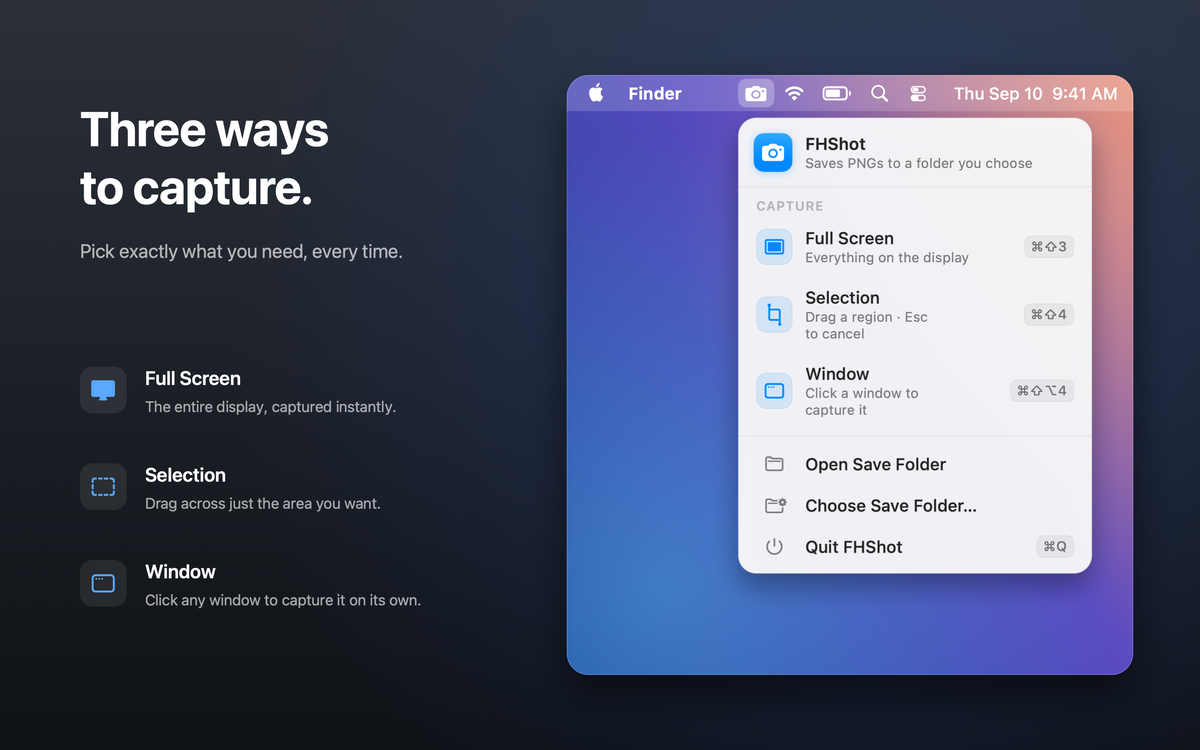
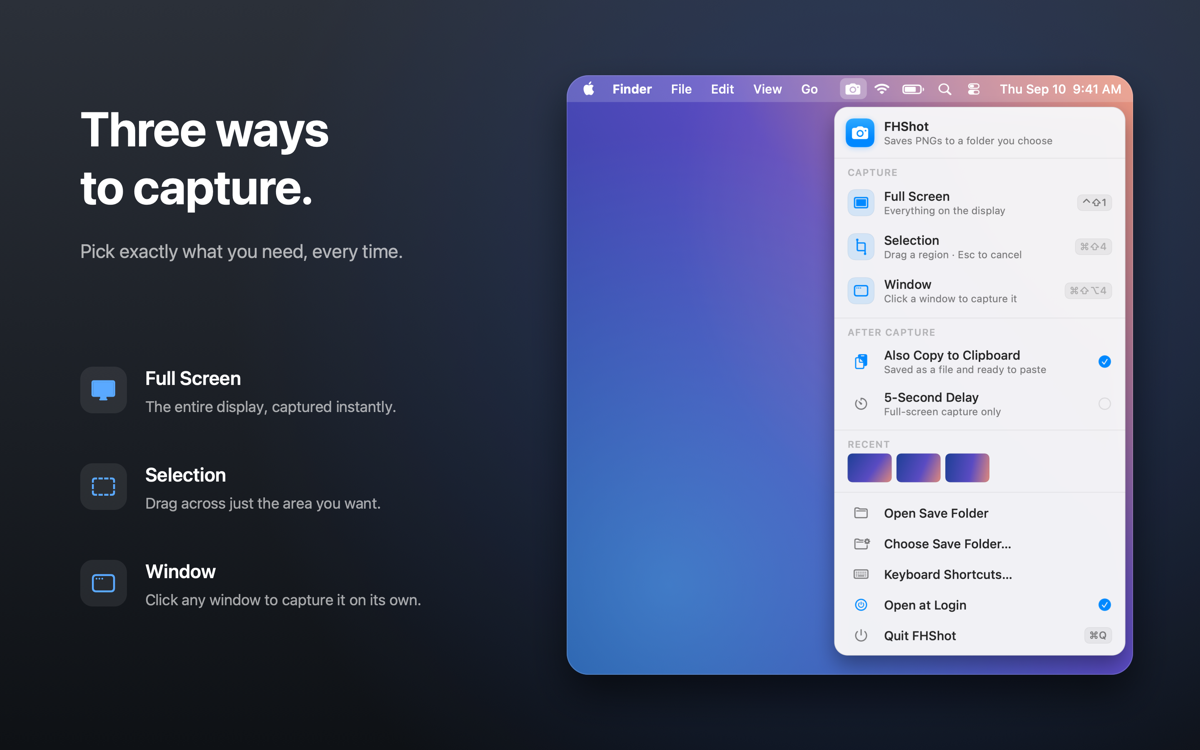
Apps: update FHShot for 1.1
Adds the shortcuts, clipboard, recent-captures, delay, and login
features to the description, and a fifth screenshot of the Keyboard
Shortcuts window. All five shots are re-exported from the App Store
set, which the panel redesign changed, so the page shows the real UI.

diff --git a/apps.html b/apps.html
@@ -606,14 +606,15 @@
           </header>
           <div class="product-body">
             <div class="app-copy">
-              <p>FHShot puts screen capture one click away in the Mac menu bar. Capture the full screen, a selected area, or a single window, and every shot is saved as a PNG in the folder you choose. It uses the screenshot engine built into macOS, so captures match the system's own. It has no account, no analytics, and no network access.</p>
+              <p>FHShot puts screen capture one click away in the Mac menu bar, or on a keyboard shortcut you choose. Capture the full screen, a selected area, or a single window, and every shot is saved as a PNG in the folder you choose. It uses the screenshot engine built into macOS, so captures match the system's own. It has no account, no analytics, and no network access.</p>
               <h3 class="product-subhead">What it does</h3>
               <ul class="about-list" aria-label="FHShot features">
                 <li><span class="check" aria-hidden="true"></span><span><strong>Always within reach:</strong> a camera icon in the menu bar, one click from any app.</span></li>
-                <li><span class="check" aria-hidden="true"></span><span><strong>Three capture modes:</strong> full screen, a selection, or a single window.</span></li>
-                <li><span class="check" aria-hidden="true"></span><span><strong>Saved where you want:</strong> pick a folder once and FHShot remembers it.</span></li>
-                <li><span class="check" aria-hidden="true"></span><span><strong>Familiar file names:</strong> shots are named the same way macOS names its own screenshots.</span></li>
-                <li><span class="check" aria-hidden="true"></span><span><strong>Stays out of the way:</strong> no Dock icon and no windows to manage.</span></li>
+                <li><span class="check" aria-hidden="true"></span><span><strong>Three capture modes:</strong> full screen, a selection, or a single window, with a five-second delay when you need one.</span></li>
+                <li><span class="check" aria-hidden="true"></span><span><strong>Your own keyboard shortcuts:</strong> give any capture mode a global shortcut and use it from any app.</span></li>
+                <li><span class="check" aria-hidden="true"></span><span><strong>Saved where you want:</strong> pick a folder once and FHShot remembers it, naming each shot the way macOS names its own.</span></li>
+                <li><span class="check" aria-hidden="true"></span><span><strong>Ready to use right away:</strong> copy each shot to the clipboard as it saves, or drag one of the last five straight from the menu bar into an email or document.</span></li>
+                <li><span class="check" aria-hidden="true"></span><span><strong>Stays out of the way:</strong> no Dock icon and no windows to manage, and it can open at login.</span></li>
               </ul>
             </div>
             <div class="product-build">
@@ -621,8 +622,9 @@
               <ul class="build-list">
                 <li>A native menu bar app for macOS 13 Ventura and later.</li>
                 <li>Capture built on macOS's own screenshot tools, window shadows included.</li>
+                <li>Global shortcuts that work without asking for Accessibility access to the Mac.</li>
                 <li>App Sandbox with no network permission, so screenshots can't leave the Mac.</li>
-                <li>Store screenshots rendered from the app's real menu, so the listing always matches the app.</li>
+                <li>Store screenshots rendered from the app's real panel, so the listing always matches the app.</li>
               </ul>
             </div>
           </div>
@@ -635,9 +637,9 @@
             <figure class="app-shot">
               <picture>
                 <source srcset="assets/apps/fhshot-1-menu.webp" type="image/webp">
-                <img src="assets/apps/fhshot-1-menu.png" alt="FHShot dropdown menu open from the Mac menu bar, listing the capture options." loading="lazy" width="1200" height="750">
+                <img src="assets/apps/fhshot-1-menu.png" alt="FHShot's panel open from the Mac menu bar, showing the capture modes, the clipboard and delay options, and thumbnails of recent screenshots." loading="lazy" width="1200" height="750">
               </picture>
-              <figcaption><strong>One click away</strong> Every capture option in a single menu bar dropdown.</figcaption>
+              <figcaption><strong>One click away</strong> Capture modes, options, and your recent shots in one menu bar panel.</figcaption>
             </figure>
             <figure class="app-shot">
               <picture>
@@ -655,8 +657,15 @@
             </figure>
             <figure class="app-shot">
               <picture>
-                <source srcset="assets/apps/fhshot-4-privacy.webp" type="image/webp">
-                <img src="assets/apps/fhshot-4-privacy.png" alt="FHShot privacy promises: no account, no analytics, and no network access." loading="lazy" width="1200" height="750">
+                <source srcset="assets/apps/fhshot-4-shortcuts.webp" type="image/webp">
+                <img src="assets/apps/fhshot-4-shortcuts.png" alt="FHShot's Keyboard Shortcuts window, with a global shortcut assigned to each of the three capture modes." loading="lazy" width="1200" height="750">
+              </picture>
+              <figcaption><strong>Your own shortcuts</strong> Capture from any app without opening the panel.</figcaption>
+            </figure>
+            <figure class="app-shot">
+              <picture>
+                <source srcset="assets/apps/fhshot-5-privacy.webp" type="image/webp">
+                <img src="assets/apps/fhshot-5-privacy.png" alt="FHShot privacy promises: no account, no analytics, and no network access." loading="lazy" width="1200" height="750">
               </picture>
               <figcaption><strong>Private by design</strong> No account, no analytics, and no network access.</figcaption>
             </figure>
